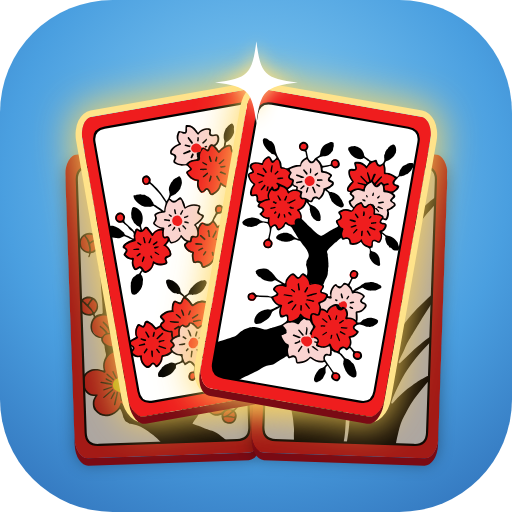
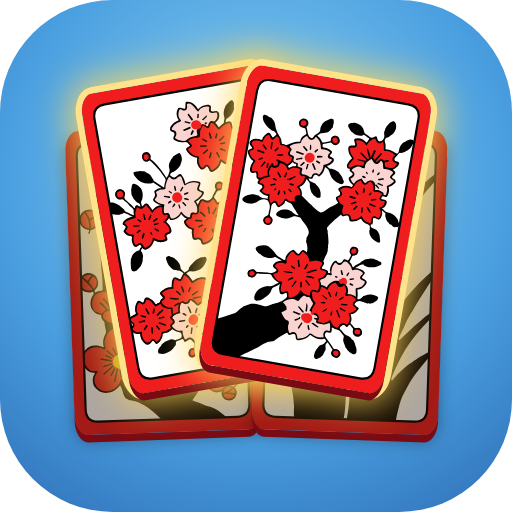
앱 아이콘: 반짝이 빼고 그림을 조금 위로 (시안 E)
- 충격선 시안 F 도 icon-options 에 남김

diff --git a/StoreAssets/src/icons.js b/StoreAssets/src/icons.js
@@ -15,6 +15,15 @@ body { position: relative; }
 .spark { position: absolute; width: 60px; height: 60px; margin: -30px 0 0 -30px; }`;
 const c = (n, x, y, w, rot = 0, cls = '', z = 1, shadow = '0 6px 14px rgba(0,0,0,.35)') =>
   `<div class="card ${cls}" style="left:${x - w / 2}px;top:${y - w * AR / 2}px;width:${w}px;height:${w * AR}px;transform:rotate(${rot}deg);z-index:${z};box-shadow:0 7px 0 #7A0A14,${cls.includes('glow') ? '0 0 0 6px #FFE38A, 0 0 34px 10px rgba(255,214,90,.9)' : shadow}"><img src="${card(n)}"></div>`;
+// 부딪침 표시: (x, y)에서 위쪽으로 퍼지는 짧은 충격선 (만화의 "탁!")
+const impact = (x, y, s = 1, z = 9) => {
+  let lines = '';
+  [-62, -31, 0, 31, 62].forEach((a, i) => {
+    const r0 = 26, r1 = i % 2 ? 58 : 74, rad = (a - 90) * Math.PI / 180;
+    lines += `<line x1="${(Math.cos(rad) * r0).toFixed(1)}" y1="${(Math.sin(rad) * r0).toFixed(1)}" x2="${(Math.cos(rad) * r1).toFixed(1)}" y2="${(Math.sin(rad) * r1).toFixed(1)}"/>`;
+  });
+  return `<svg viewBox="-80 -80 160 160" style="position:absolute;left:${x - 80 * s}px;top:${y - 80 * s}px;width:${160 * s}px;height:${160 * s}px;z-index:${z};overflow:visible;filter:drop-shadow(0 0 5px #FFE38A)"><g stroke="#fff" stroke-width="11" stroke-linecap="round">${lines}</g></svg>`;
+};
 // 네 갈래 반짝이 (끝이 뾰족한 별)
 const spark = (x, y, s, z = 9) => `<svg class="spark" viewBox="-30 -30 60 60" style="left:${x}px;top:${y}px;transform:scale(${s});z-index:${z};filter:drop-shadow(0 0 6px #FFE38A)"><path d="M0-30 C3-6 6-3 30 0 C6 3 3 6 0 30 C-3 6-6 3-30 0 C-6-3-3-6 0-30Z" fill="#fff"/></svg>`;
 
@@ -54,6 +63,18 @@ const variants = {
     // 위층: 빛나는 벚꽃 짝
     s += c('March_Kasu_1', 200, 252, 176, -10, 'glow', 3) + c('March_Kasu_2', 312, 252, 176, 10, 'glow', 4);
     s += spark(256, 92, 1.3);
+    return s; } },
+  // E: D에서 반짝이를 빼고 그림을 조금 위로
+  E: { bg: 'radial-gradient(circle at 50% 35%, #8FD3F4 0%, #4A9FE0 60%, #2F6FB8 100%)', body: () => {
+    let s = c('February_Kasu_1', 168, 278, 176, -2, 'dim', 1) + c('May_Kasu_1', 344, 278, 176, 2, 'dim', 1);
+    s += c('March_Kasu_1', 200, 230, 176, -10, 'glow', 3) + c('March_Kasu_2', 312, 230, 176, 10, 'glow', 4);
+    
+    return s; } },
+  // F: 반짝이 대신 두 장이 맞붙은 자리 위로 "탁!" 충격선
+  F: { bg: 'radial-gradient(circle at 50% 35%, #8FD3F4 0%, #4A9FE0 60%, #2F6FB8 100%)', body: () => {
+    let s = c('February_Kasu_1', 168, 294, 176, -2, 'dim', 1) + c('May_Kasu_1', 344, 294, 176, 2, 'dim', 1);
+    s += c('March_Kasu_1', 200, 246, 176, -10, 'glow', 3) + c('March_Kasu_2', 312, 246, 176, 10, 'glow', 4);
+    s += impact(256, 132, 0.8);
     return s; } },
   // C: 3층으로 비스듬히 쌓인 더미(위로 갈수록 밝게), 맨 위 벚꽃 한 쌍. 크림색 배경
   C: { bg: 'radial-gradient(circle at 50% 30%, #FFF8E6 0%, #F6E2B8 60%, #E2BF84 100%)', body: () => {

diff --git a/StoreAssets/src/make.js b/StoreAssets/src/make.js
@@ -2,7 +2,7 @@
 // (하늘색 배경, 층층이 쌓인 패 위에서 벚꽃 짝 두 장이 빛난다. 광 패·초록 담요는 쓰지 않는다.)
 // 사용: node StoreAssets/src/make.js <화투 SVG 폴더>   (Tools/Cards/README.md 의 위키미디어 SVG)
 // 결과: StoreAssets/feature-ko.png, StoreAssets/feature-en.png
-// 앱 아이콘은 icons.js (시안 D를 icon-512.png 와 Assets/Icon/AppIcon.png 로 복사해 쓴다)
+// 앱 아이콘은 icons.js (시안 E를 icon-512.png 와 Assets/Icon/AppIcon.png 로 복사해 쓴다)
 const fs = require('fs'), path = require('path'), { execFileSync } = require('child_process');
 const SVG = process.argv[2];
 if (!SVG) { console.error('usage: node make.js <svg dir>'); process.exit(1); }

diff --git a/Assets/Editor/ProjectSetup.cs b/Assets/Editor/ProjectSetup.cs
@@ -70,7 +70,7 @@ public static class ProjectSetup
 
     /// <summary>
     /// 안드로이드 런처 아이콘: 적응형(배경 + 전경, 기기마다 원·둥근 사각형 등으로 잘린다), 원형, 레거시(둥근 사각형).
-    /// 그림은 StoreAssets/src/icons.js 로 만든다 (시안 D).
+    /// 그림은 StoreAssets/src/icons.js 로 만든다 (시안 E).
     /// </summary>
     static void ApplyAndroidIcons(Texture2D legacy)
     {

diff --git a/StoreAssets/StoreListing.md b/StoreAssets/StoreListing.md
@@ -1,6 +1,6 @@
 # 플레이 스토어 등록 정보
 
-그래픽: `StoreAssets/icon-512.png`(스토어에 올리는 앱 아이콘, 시안 D: 2층으로 쌓인 벚꽃 짝. 둥근 모양 미리 보기 `icon-512-rounded.png`, 다른 시안은 `icon-options/`, `node StoreAssets/src/icons.js <SVG 폴더> <출력>`), `feature-ko.png`·`feature-en.png`(피처 그래픽 1024x500),
+그래픽: `StoreAssets/icon-512.png`(스토어에 올리는 앱 아이콘, 시안 E: 2층으로 쌓인 벚꽃 짝, 반짝이 없음. 둥근 모양 미리 보기 `icon-512-rounded.png`, 다른 시안은 `icon-options/`, `node StoreAssets/src/icons.js <SVG 폴더> <출력>`), `feature-ko.png`·`feature-en.png`(피처 그래픽 1024x500),
 `screenshots/ko`·`screenshots/en`(휴대전화 스크린샷 1080x1920 6장씩). 다시 만들기: `node StoreAssets/src/make.js <화투 SVG 폴더>`,
 `node StoreAssets/src/screens.js` (먼저 Windows 빌드로 `-autoshot Builds/shots` 를 810x1440 으로 찍는다).
 
